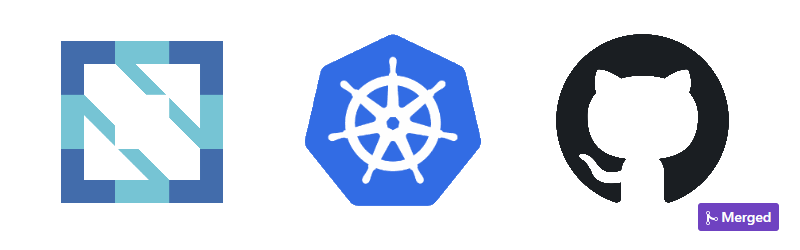
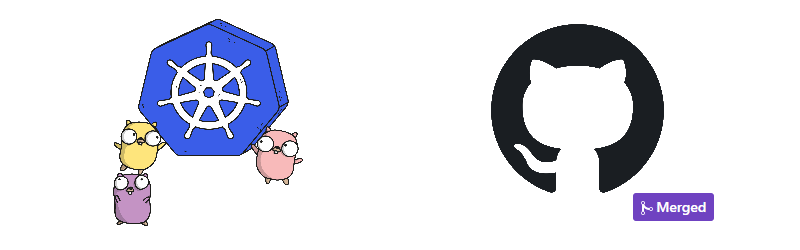
update image and override blockquote css

diff --git a/config/css/_override.scss b/config/css/_override.scss
@@ -5,3 +5,7 @@
 html {
     font-family:-apple-system,BlinkMacSystemFont,PingFang SC,Microsoft Yahei UI,Segoe UI,Helvetica,Arial,sans-serif,Segoe UI Emoji !important;
 }
+
+.single .content blockquote::after {
+    content : "" !important;
+}
